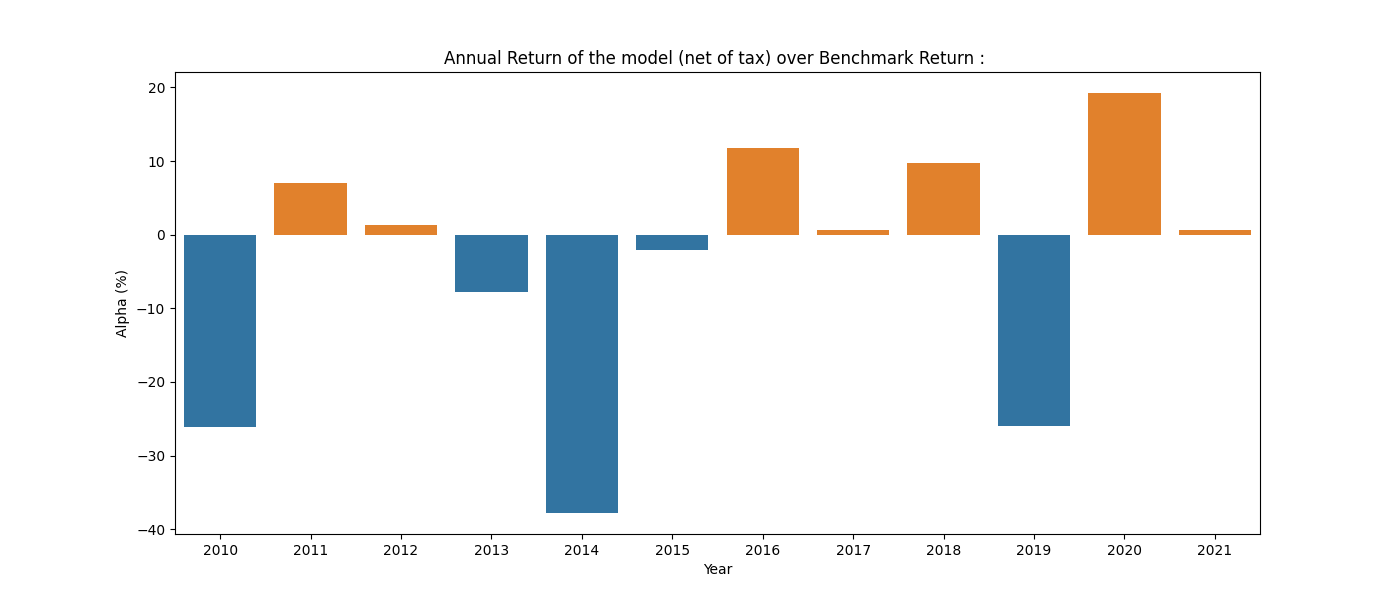
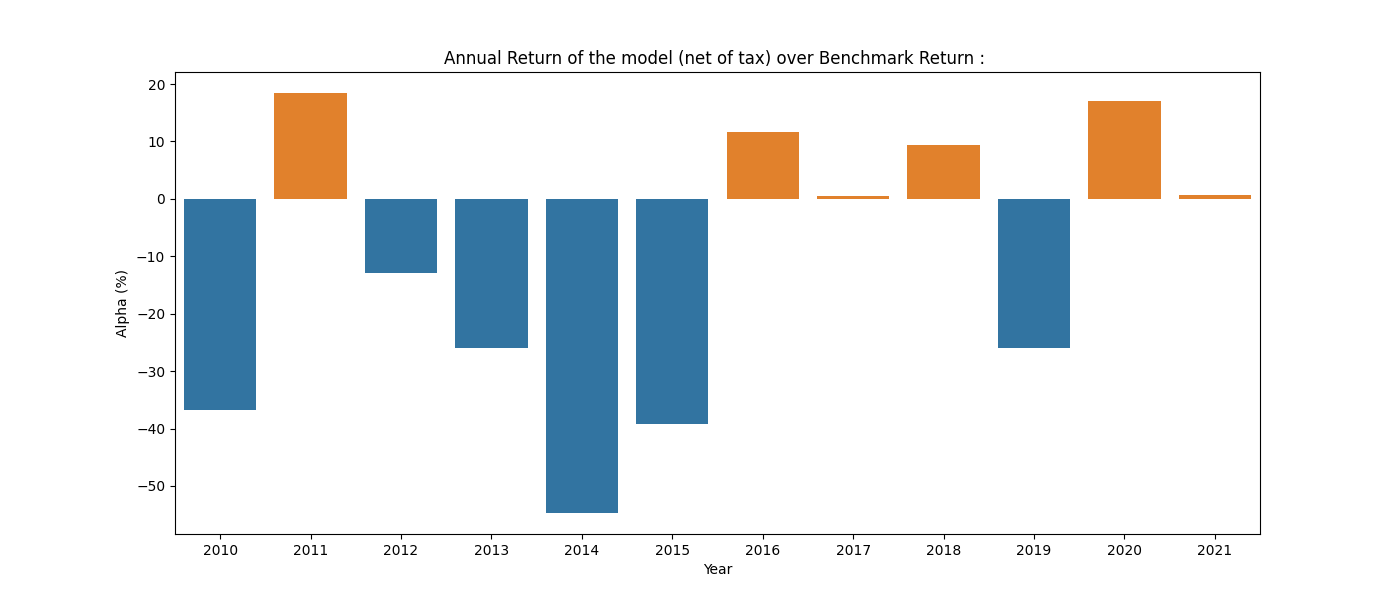
update

diff --git a/SW/size/test.py b/SW/size/test.py
@@ -25,7 +25,7 @@ def strat(df_input_all, price, rebalance_freq, model_name='MLP', nb_epochs=50, i
     num_features = len(df_input_all.columns.get_level_values(1).unique())
 
     # Target data
-    returns = price[:last_date_train].pct_change().shift(1).resample(rebalance_freq, convention='end').agg(lambda x: (x + 1).prod() - 1)
+    returns = price[:last_date_train].pct_change().shift(1).resample(rebalance_freq).agg(lambda x: (x + 1).prod() - 1)
     best_pred = returns.rank(axis=1).replace({1: 0., 2: 0., 3: 1.}).shift(-1)
 
     if rebalance_freq == 'M':
@@ -48,13 +48,14 @@ def strat(df_input_all, price, rebalance_freq, model_name='MLP', nb_epochs=50, i
         if rebalance_freq == 'M':
             dayofweek = {0:'Monday', 1:'Tuesday', 2:'Wednesday', 3:'Thursday', 4:'Friday', 5:'Saturday', 6:'Sunday'}
             reb_freq_input = 'W-' + dayofweek[df_input_all.index[-1].weekday()][:3].upper()
-            df_input_period = df_input.loc[:idx].asfreq(reb_freq_input, method='ffill').iloc[-input_period:]
+            df_input_period = df_input.loc[:idx].resample(reb_freq_input).mean().iloc[-input_period:]
         # If we rebalance weekly, the input data will be daily data
         else:
             df_input_period = df_input.loc[:idx].iloc[-input_period:]
             
         X_period = df_input_period.values.reshape(input_period, num_tickers, num_features)
         X.append(X_period)
+        
     X = np.array(X)
     y = df_output.values
     X, y = torch.from_numpy(X).float(), torch.from_numpy(y).float()
@@ -84,10 +85,10 @@ def strat(df_input_all, price, rebalance_freq, model_name='MLP', nb_epochs=50, i
     if rebalance_freq == 'M':
         dayofweek = {0:'Monday', 1:'Tuesday', 2:'Wednesday', 3:'Thursday', 4:'Friday', 5:'Saturday', 6:'Sunday'}
         reb_freq_input = 'W-' + dayofweek[df_input_all.index[-1].weekday()][:3].upper()
-        df_input_period = df_input.loc[:idx].asfreq(reb_freq_input, method='ffill').iloc[-input_period:]
+        df_input_period = df_input.loc[:idx].resample(reb_freq_input).mean().iloc[-input_period:]
     else:
         df_input_period = df_input_all.iloc[-input_period:]
-    
+
     X = df_input_period.values.reshape(input_period, num_tickers, num_features)
     X = torch.from_numpy(X).float()
     X = X.view(1, X.size(0), X.size(1), X.size(2)).to(device)
@@ -110,7 +111,7 @@ def run():
     batch_size = 10
     training_window = 5
     nb_epochs = 200
-    verbose = 4
+    verbose = 3
     rebalance_freq = 'W-FRI'
     input_period_days = 15
     input_period_weeks = 8

diff --git a/SW/size/backtest.py b/SW/size/backtest.py
@@ -45,7 +45,7 @@ def backtest_strat(df_input_all, price, rebalance_freq, model_name='MLP',
     for i, end_date in enumerate(tqdm(all_end_dates)):
 
         start_date = end_date - relativedelta(years=training_window)
-        
+
         # The first date input must before the first date output
         if rebalance_freq =='M':
             # Make sur the input period start the 1st of the month
@@ -62,7 +62,7 @@ def backtest_strat(df_input_all, price, rebalance_freq, model_name='MLP',
         for idx in df_output.index:
             # If we rebalance monthly, the input data will be weekly data
             if rebalance_freq == 'M':
-                df_input_period = df_input.loc[:idx].asfreq('W', method='ffill').iloc[-input_period:]
+                df_input_period = df_input.loc[:idx].resample('W').mean().iloc[-input_period:]
             # If we rebalance weekly, the input data will be daily data
             else:
                 df_input_period = df_input.loc[:idx].iloc[-input_period:]
@@ -206,7 +206,7 @@ def run_backtest():
     df_resume = resume_backtest(df_pred_dict, bench_price, price)
     print(df_resume)
 
-    daily_returns = price.pct_change()
+    daily_returns = price.pct_change().shift(1)
     perf_bench = price_to_perf(bench_price.loc[df_pred_dict['Ensemble'].index[0]:df_pred_dict['Ensemble'].index[-1]], log=False)
     performance_plot(df_pred_dict, daily_returns, perf_bench)
     annual_alpha_plot(perf_bench, df_pred_dict['Ensemble'], daily_returns)

diff --git a/SW/sector/data.py b/SW/sector/data.py
@@ -3,7 +3,6 @@ import pandas as pd
 import os
 
 from helpers import clean_tickers
-
 def get_price_data():
 
     file_path = os.path.join(os.path.dirname(__file__))
@@ -23,16 +22,17 @@ def get_price_data():
     clean_tickers(daily_returns)
     daily_returns = daily_returns[indice_weight.columns]
 
-    monthly_returns = daily_returns.shift(1).resample('M').agg(lambda x: (x + 1).prod() - 1)
+    monthly_returns = daily_returns.resample('M').agg(lambda x: (x + 1).prod() - 1)
     max_ret = np.zeros_like(monthly_returns.values)
     max_ret[np.arange(len(max_ret)), monthly_returns.values.argmax(1)] = 1
     best_pred = pd.DataFrame(max_ret, columns=monthly_returns.columns, index=monthly_returns.index).astype(int).shift(-1)
 
     ratios_path = file_path + '/data/ratio_data.xlsx'
     all_ratios = pd.read_excel(ratios_path, sheet_name=None, skiprows=[0,1,2,4,5], parse_dates=True, index_col=0)
-
+    for ratio in all_ratios:
+        all_ratios[ratio] = all_ratios[ratio].shift(1)
     df_input = pd.concat(all_ratios, axis=1)
-    df_input = df_input.swaplevel(0, 1, 1).sort_index(axis=1).fillna(method='ffill').shift(1).fillna(0)
+    df_input = df_input.swaplevel(0, 1, 1).sort_index(axis=1).fillna(method='ffill').fillna(0)
     clean_tickers(df_input, ratio=True)
     new_cols = df_input.columns.reindex(indice_weight.columns, level=0)
     df_input = df_input.reindex(columns=new_cols[0])

diff --git a/SW/sector/helpers.py b/SW/sector/helpers.py
@@ -58,7 +58,7 @@ def prob_to_portfolio(df_prob, indice_weight):
     df_signal = prob_to_signal(df_prob, indice_weight)
     indice_weight = indice_weight.reindex(df_prob.index, method='ffill')
     portfolio = indice_weight + df_signal
-    return portfolio
+    return portfolio.shift(1)
 
 
 def prob_to_perf(df_prob, indice_weight, daily_returns, tax=0.0006, log=False):
@@ -153,3 +153,4 @@ def annual_alpha_plot(df_prob, daily_returns, indice_weight, perf_bench):
     plot_path = os.path.join(os.path.dirname(__file__)) + '/plots/excess_return.png'
     plt.savefig(plot_path)
     plt.show()
+    

diff --git a/SW/sector/test.py b/SW/sector/test.py
@@ -8,6 +8,7 @@ from train_test import train
 from data import get_price_data
 pd.set_option('display.max_columns', None)
 pd.set_option('display.width', 200)
+import pdb
 
 # import os, sys
 # sys.path.append(os.path.join(os.path.dirname(__file__)))
@@ -26,7 +27,6 @@ def strat(df_input_all, best_pred, model_name='MLP',
 
     df_output = best_pred.loc[start_date:].dropna()
     df_input = df_input_all.loc[start_date_input:df_output.index[-1]]
-    
     X = []
     for idx in df_output.index:
         df_input_period = df_input.loc[:idx].asfreq('M', method='ffill').iloc[-input_period:]

diff --git a/SW/size/helpers.py b/SW/size/helpers.py
@@ -143,7 +143,7 @@ def price_to_perf(df, log=False):
 
 def resume_backtest(df_pred_dict, bench_price, price):
 
-    daily_returns = price.pct_change()
+    daily_returns = price.pct_change().shift(1)
     perf_bench = price_to_perf(bench_price.loc[next(iter(df_pred_dict.items()))[1].index[0]:next(iter(df_pred_dict.items()))[1].index[-1]], log=False)
 
     bench_stats = perf_to_stat(perf_bench, perf_bench)

diff --git a/SW/size/data.py b/SW/size/data.py
@@ -45,6 +45,6 @@ def get_price_data():
                         'vol12', 'vol6', 'vol1', 'RSI14', 'RSI9', 'MACD', 'RSI3']
         df_dict[col] = df_temp
         
-    df_input = pd.concat(df_dict, axis=1)
+    df_input = pd.concat(df_dict, axis=1).shift(1)
 
     return price, bench_price, df_input
